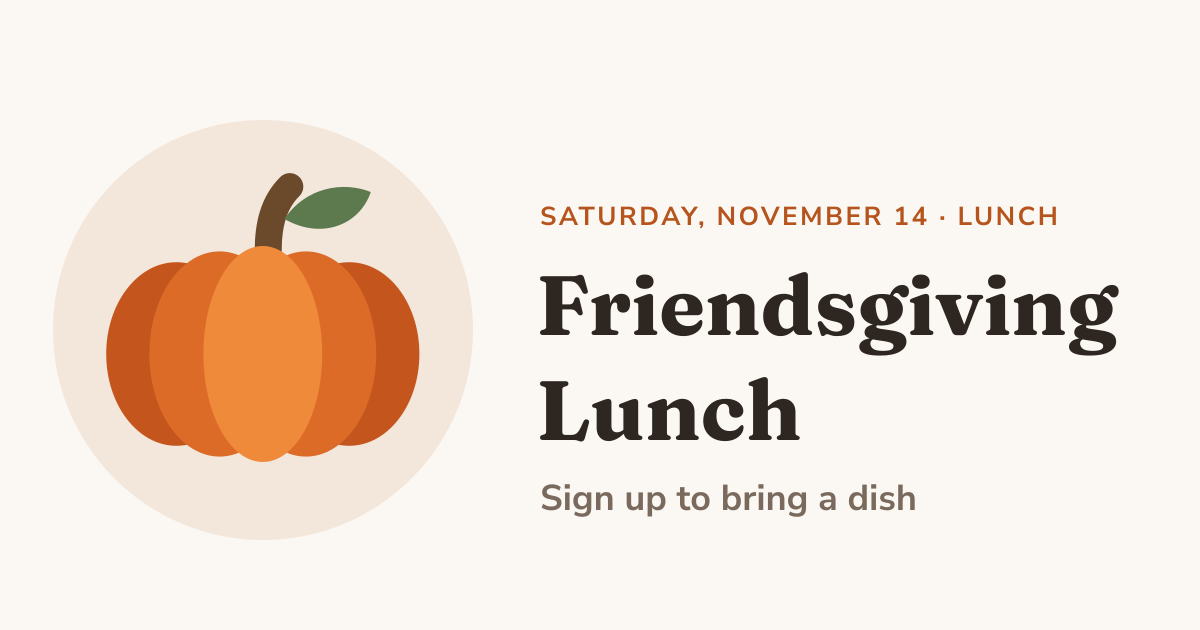
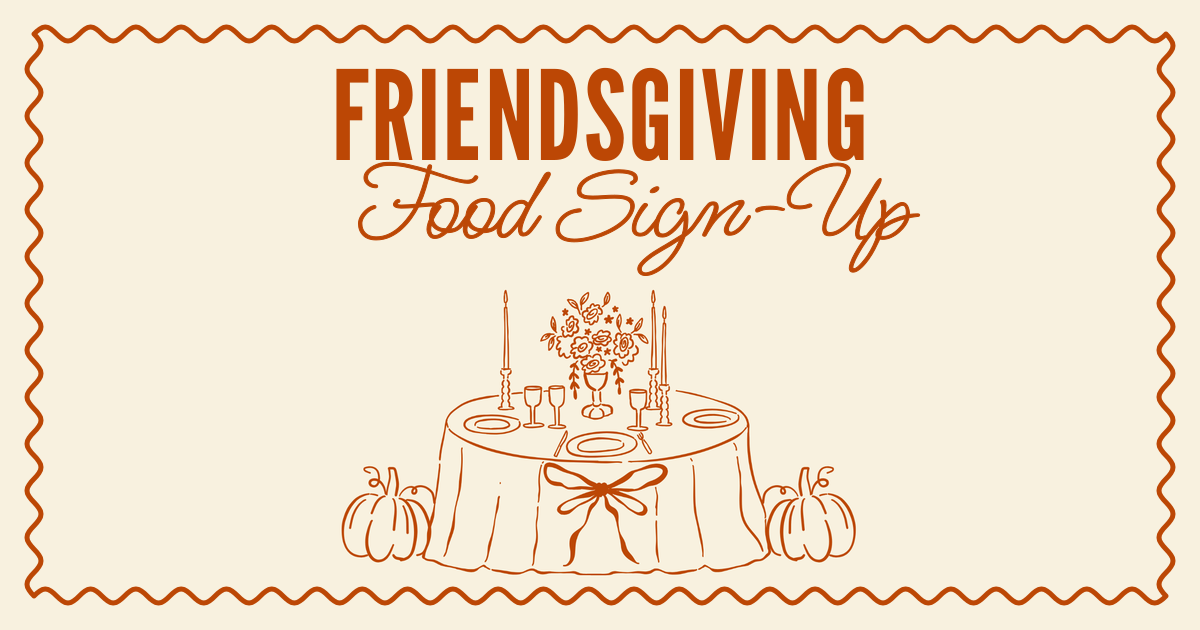
Link preview continues the invitation design
Claude-Session: https://claude.ai/code/session_013n7tyAevkpEDHJdDQvr386

diff --git a/index.html b/index.html
@@ -10,12 +10,12 @@
 <link rel="apple-touch-icon" href="/apple-touch-icon.png">
 <meta property="og:type" content="website">
 <meta property="og:url" content="https://friendsgiving-signup-4cck.vercel.app/">
-<meta property="og:title" content="Friendsgiving Lunch Sign-Up">
-<meta property="og:description" content="Saturday, November 14. Sign up to bring a dish.">
+<meta property="og:title" content="Friendsgiving Food Sign-Up">
+<meta property="og:description" content="Sign up to bring a dish, dessert or drinks.">
 <meta property="og:image" content="https://friendsgiving-signup-4cck.vercel.app/og-image.png">
 <meta property="og:image:width" content="1200">
 <meta property="og:image:height" content="630">
-<meta property="og:image:alt" content="A pumpkin beside the words Friendsgiving Lunch, Saturday, November 14">
+<meta property="og:image:alt" content="Friendsgiving Food Sign-Up above a hand-drawn table set for lunch, with pumpkins">
 <meta name="twitter:card" content="summary_large_image">
 <meta name="twitter:image" content="https://friendsgiving-signup-4cck.vercel.app/og-image.png">
 <meta name="theme-color" content="#b5541c">
